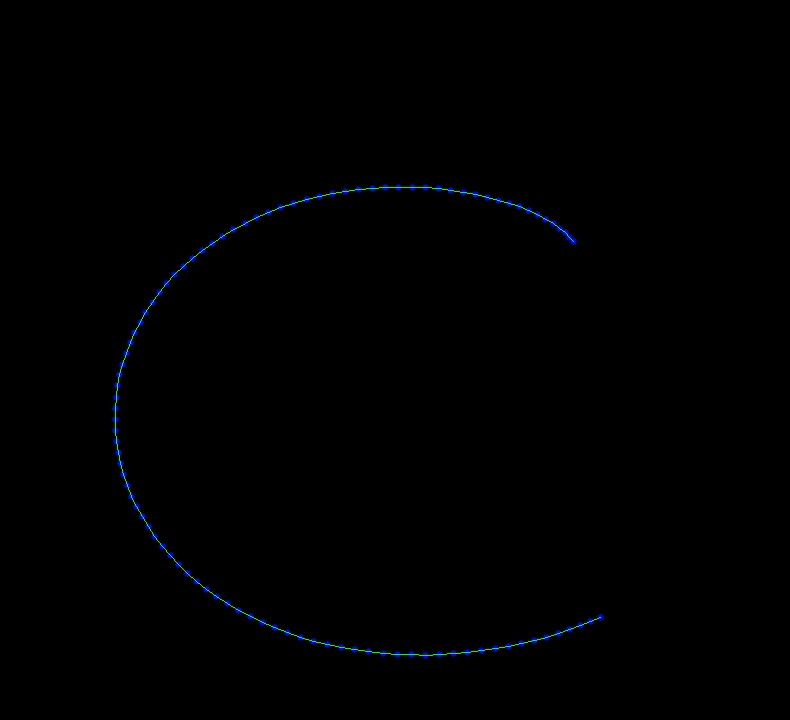
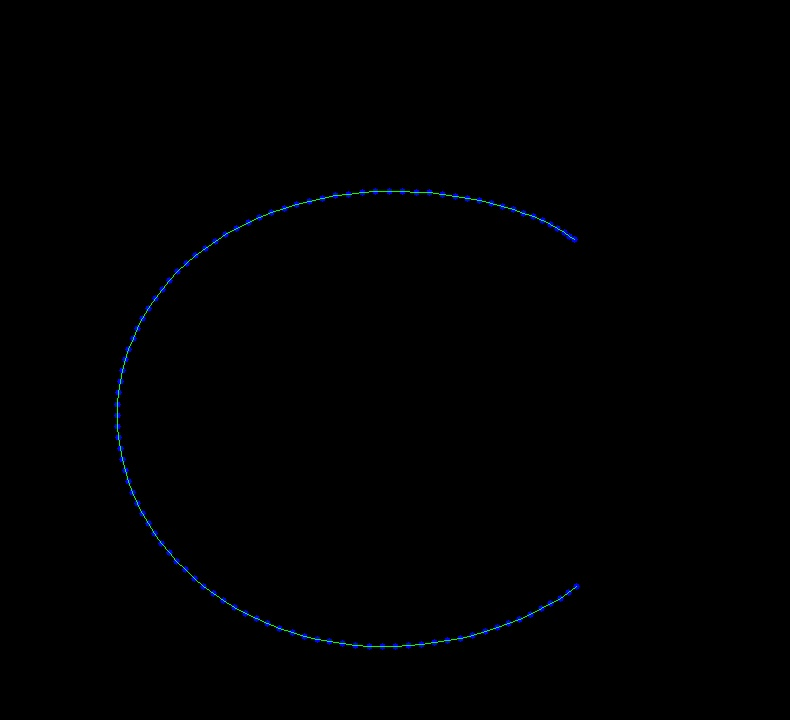
Tuned weighting params more

diff --git a/test/src/BezierTest.java b/test/src/BezierTest.java
@@ -2340,27 +2340,31 @@ public class BezierTest {
                 new Point(161.63648986816406, 297.1679382324219),
                 new Point(161.63648986816406, 297.1679382324219),
                 new Point(161.63648986816406, 297.1679382324219),
+                new Point(161.63648986816406, 297.1679382324219),
+                new Point(153.85562133789062, 300.9812927246094),
                 new Point(153.85562133789062, 300.9812927246094),
                 new Point(153.85562133789062, 300.9812927246094),
                 new Point(153.85562133789062, 300.9812927246094),
                 new Point(134.9081573486328, 327.4660949707031),
                 new Point(134.9081573486328, 327.4660949707031),
                 new Point(134.9081573486328, 327.4660949707031),
+                new Point(134.9081573486328, 327.4660949707031),
+                new Point(122.98680114746094, 342.00396728515625),
                 new Point(122.98680114746094, 342.00396728515625),
                 new Point(122.98680114746094, 342.00396728515625),
                 new Point(122.98680114746094, 342.00396728515625),
                 new Point(131.77882385253906, 349.3769226074219),
                 new Point(131.77882385253906, 349.3769226074219),
                 new Point(131.77882385253906, 349.3769226074219),
+                new Point(131.77882385253906, 349.3769226074219),
+                new Point(124.6329116821289, 341.1186218261719),
                 new Point(124.6329116821289, 341.1186218261719),
                 new Point(124.6329116821289, 341.1186218261719),
                 new Point(124.6329116821289, 341.1186218261719),
                 new Point(117.7417984008789, 358.88824462890625),
                 new Point(117.7417984008789, 358.88824462890625),
                 new Point(117.7417984008789, 358.88824462890625),
-                new Point(160.56927490234375, 556.0787963867188),
-                new Point(160.56927490234375, 556.0787963867188),
-                new Point(160.56927490234375, 556.0787963867188),
+                new Point(117.7417984008789, 358.88824462890625),
                 new Point(160.56927490234375, 556.0787963867188),
                 new Point(160.56927490234375, 556.0787963867188),
                 new Point(160.56927490234375, 556.0787963867188),
@@ -2376,15 +2380,20 @@ public class BezierTest {
                 new Point(307.8556213378906, 639.7841186523438),
                 new Point(307.8556213378906, 639.7841186523438),
                 new Point(307.8556213378906, 639.7841186523438),
+                new Point(307.8556213378906, 639.7841186523438),
+                new Point(308.8725891113281, 633.2608642578125),
                 new Point(308.8725891113281, 633.2608642578125),
                 new Point(308.8725891113281, 633.2608642578125),
                 new Point(308.8725891113281, 633.2608642578125),
                 new Point(443.2032775878906, 645.1068115234375),
                 new Point(443.2032775878906, 645.1068115234375),
                 new Point(443.2032775878906, 645.1068115234375),
+                new Point(443.2032775878906, 645.1068115234375),
                 new Point(468.24139404296875, 630.0108642578125),
                 new Point(468.24139404296875, 630.0108642578125),
                 new Point(468.24139404296875, 630.0108642578125),
+                new Point(468.24139404296875, 630.0108642578125),
+                new Point(602.7105102539062, 604.6414184570312),
                 new Point(602.7105102539062, 604.6414184570312),
                 new Point(602.7105102539062, 604.6414184570312),
                 new Point(602.7105102539062, 604.6414184570312)

diff --git a/src/SwingAnalysis.java b/src/SwingAnalysis.java
@@ -468,9 +468,9 @@ public class SwingAnalysis {
                 bottom++;
         }
 
-        int sideTopMultiplier = (int) ((top * 0.40) / sideTop);
+        int sideTopMultiplier = (int) ((top * 0.5) / sideTop); // 0.4
         int sideBottomMultiplier = (int) ((top * 0.20) / sideBottom); // 25
-        int bottomMultiplier = (int) ((top * 0.30) / bottom);
+        int bottomMultiplier = (int) ((top * 0.35) / bottom); // 0.3
 
         System.out.println("MULTIPLIER (SIDE TOP): " + sideTopMultiplier);
         System.out.println("MULTIPLIER (SIDE BOTTOM): " + sideBottomMultiplier);
